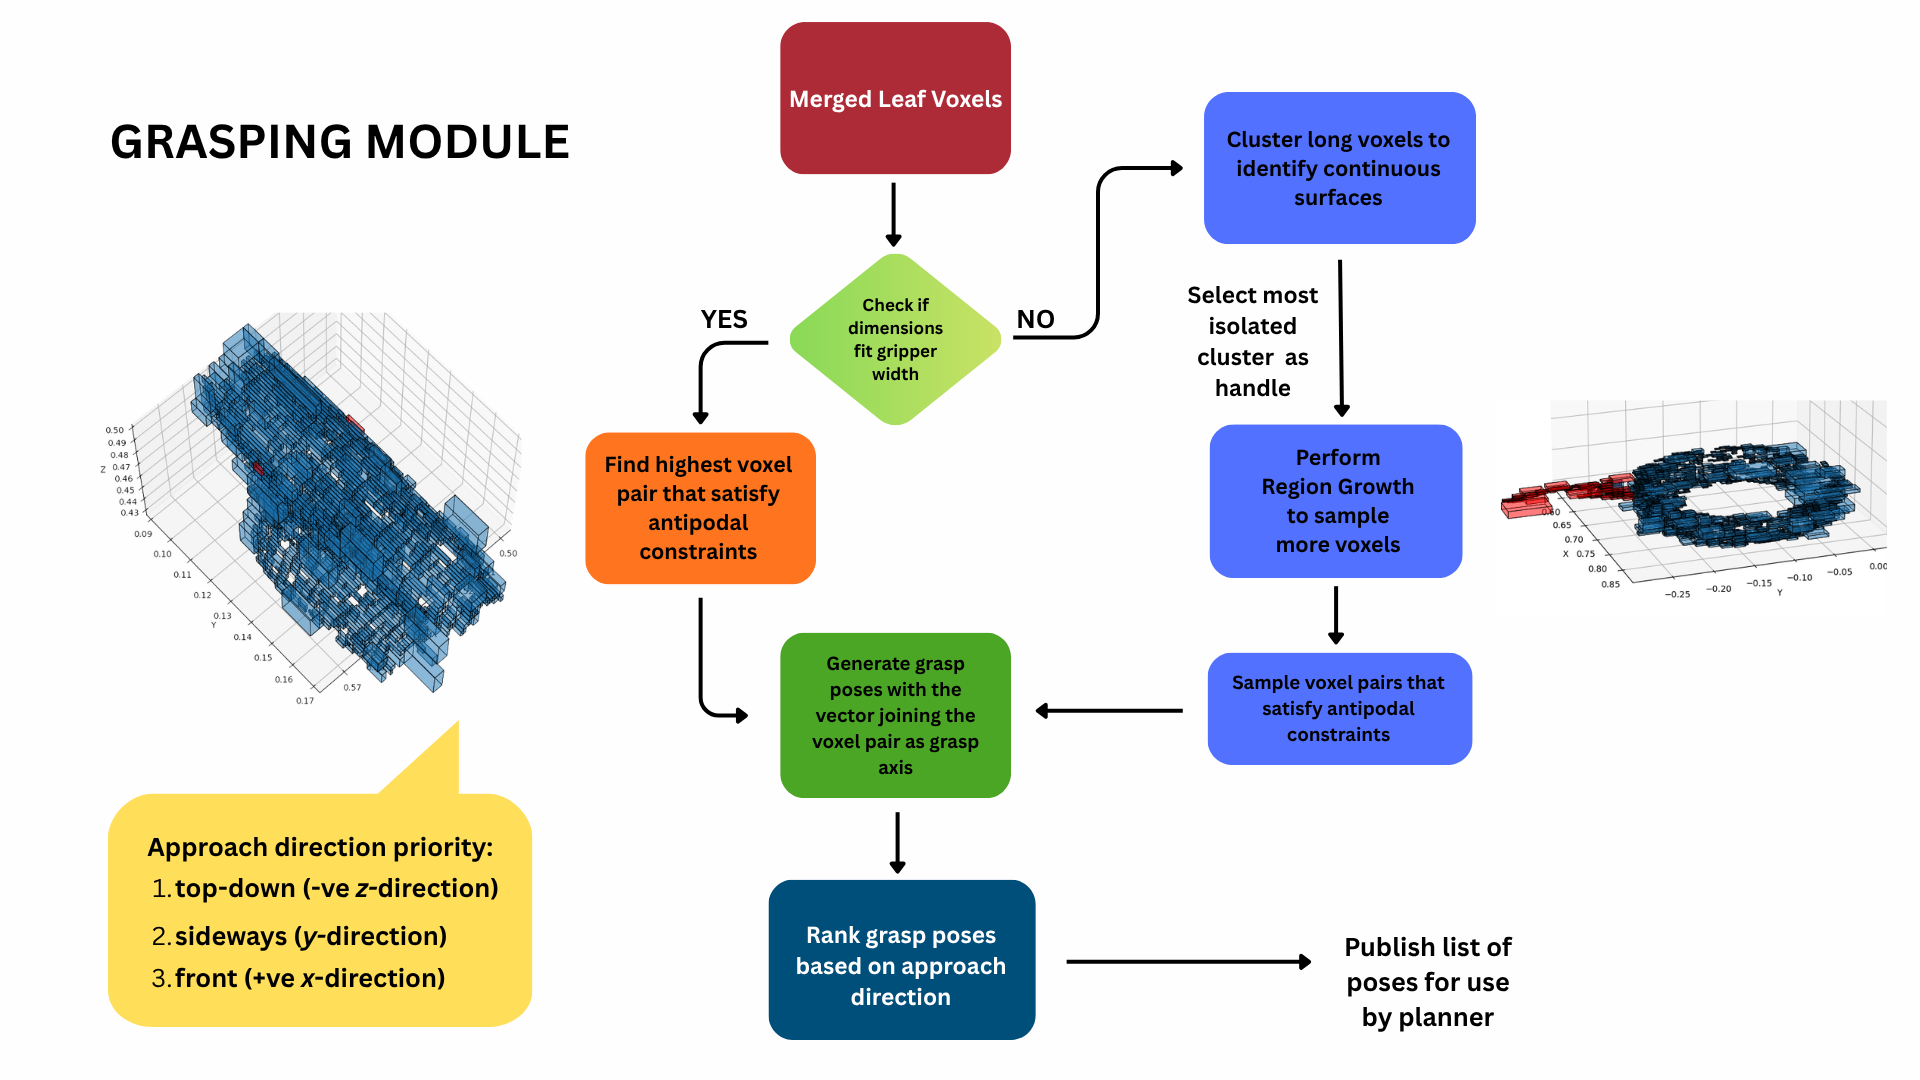
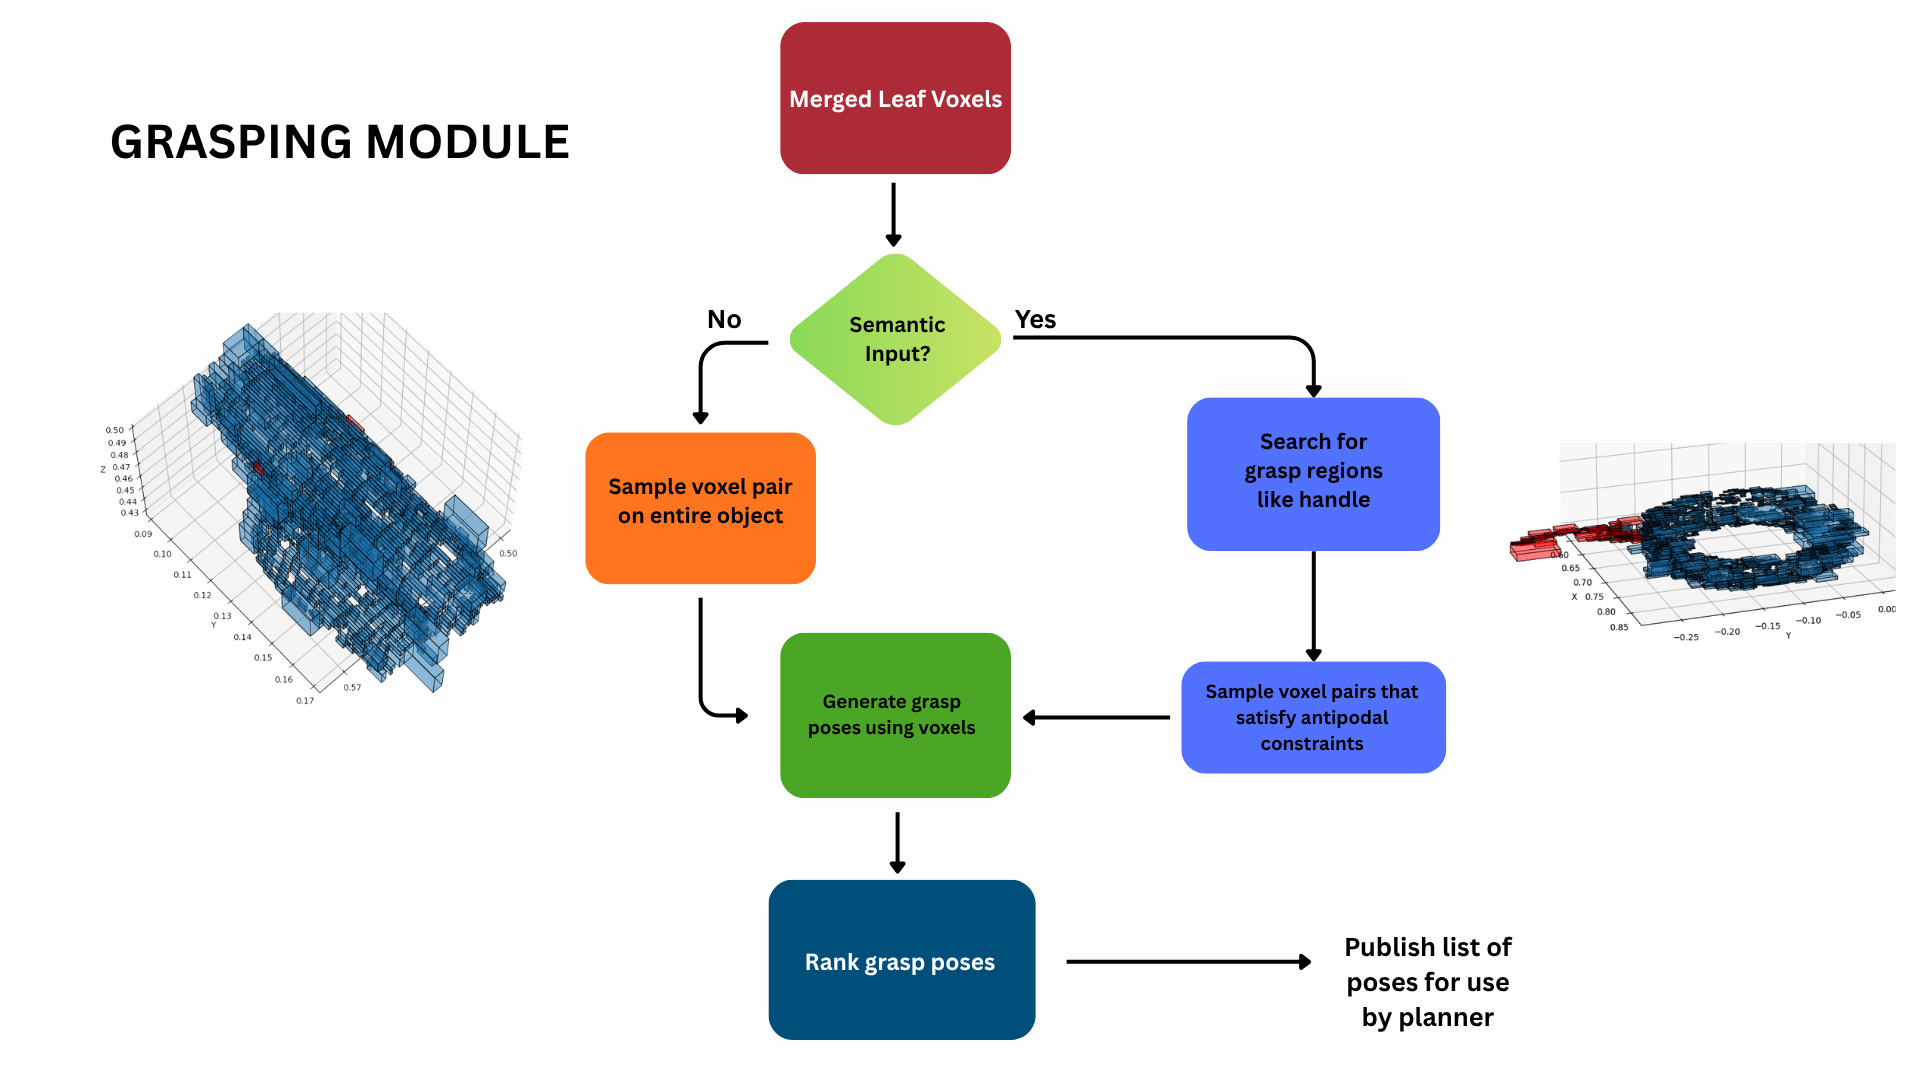
Modified octree grasp project, personal details

diff --git a/_portfolio/manipulation.md b/_portfolio/manipulation.md
@@ -1,5 +1,5 @@
 ---
-title: "A Novel Vision-guided Manipulation Pipeline for Effective Grasping"
+title: "A Novel Adaptive Octree-based Grasp Planning Pipeline for Grasping Novel Objects"
 collection: portfolio
 permalink: /projects/manipulation/
 # ↓ Replace with your actual GitHub repo URL
@@ -8,10 +8,10 @@ teaser_image: manipulation.jpg
 image_width: 180
 order: 1
 short_description: >
-  Vision-guided manipulation pipeline for effective grasping of handle objects using purely point cloud data by leveraging an Octree compression algorithm.
+  Vision-guided manipulation pipeline for effective grasping of novel objects using purely point cloud data by leveraging an adaptive Octree partitioning algorithm.
 ---
 
-This project proposes a **novel vision-guided manipulation pipeline** used for grasping objects, especially common household objects with handles, using purely point clouds. There are 2 contributions to this project- a **novel vision pipeline** which uses an algorithm that performs an adaptive Octree partitioning of the object point cloud, and a **grasping algorithm** which leverages the features generated from this Octree generation to perform effective grasping.
+This project proposes a **novel vision-guided manipulation pipeline** used for grasping objects, especially common household objects, using purely point clouds. There are 2 main contributions to this project- a **novel vision pipeline** which uses an algorithm that performs an adaptive Octree partitioning of the object point cloud, and a **grasping algorithm** which leverages the features generated from this Octree generation to perform effective grasping.
 
 The pipeline was tested on a **cooking pan** as can be seen in the gif below. Point cloud data was merged from 2 **Intel Realsense Depth Cameras**, and robotic grasping was performed using the **Franka Emika Panda Arm**.
 
@@ -34,7 +34,7 @@ The image below gives an overview of the vision pipeline. It takes in the object
 
 ## Grasping Pipeline
 
-The image below shows the flow of the grasping algorithm. It takes in the compressed Octree representation of the object, determines if the object requires simple grasping or not, and then based on that performs a handle region search and generates appropriate grasp poses.
+The image below shows the flow of the grasping algorithm. It takes in the compressed Octree representation of the object, determines the grasp strategy based on the semantic input, and then generates grasps in a specific region of the object. This grasp region is determined using the constructed Octree.
 
 <figure>
   <img src="{{ '/images/grasping.png' | relative_url }}" alt="grasping pipeline" style="max-width: 720px; width: 100%;">
